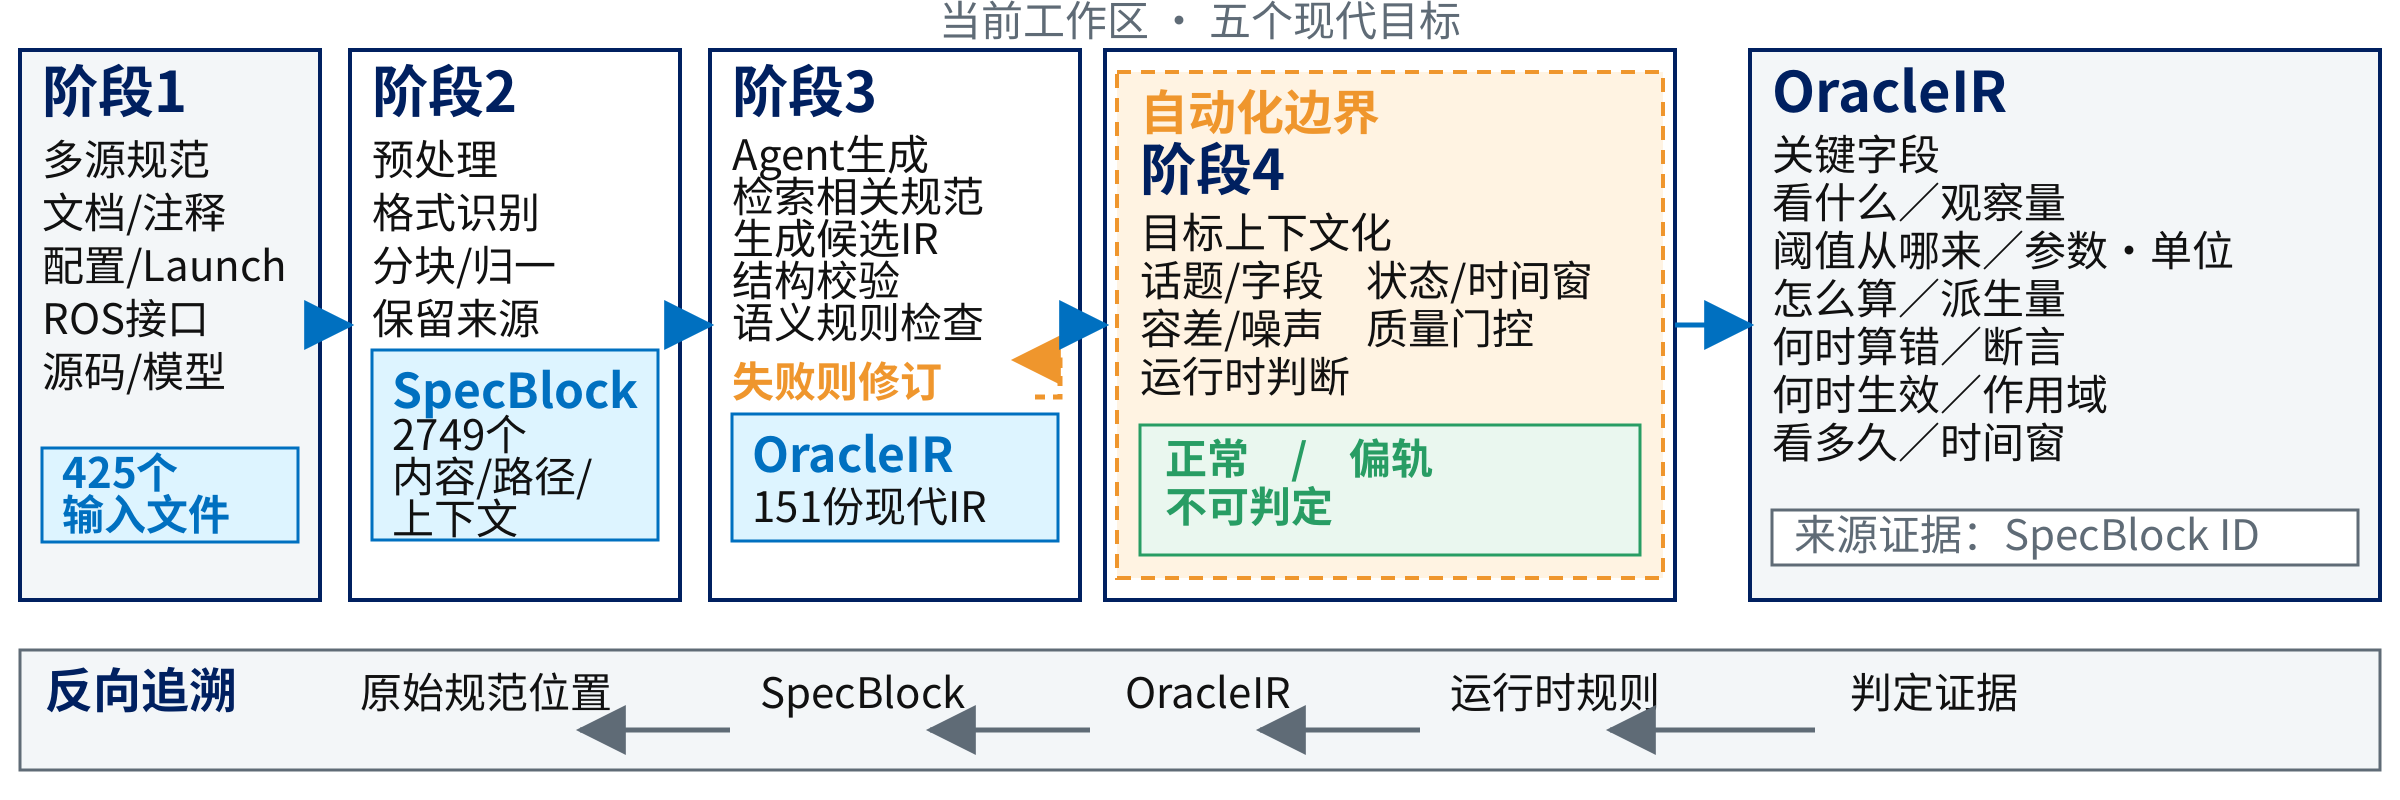
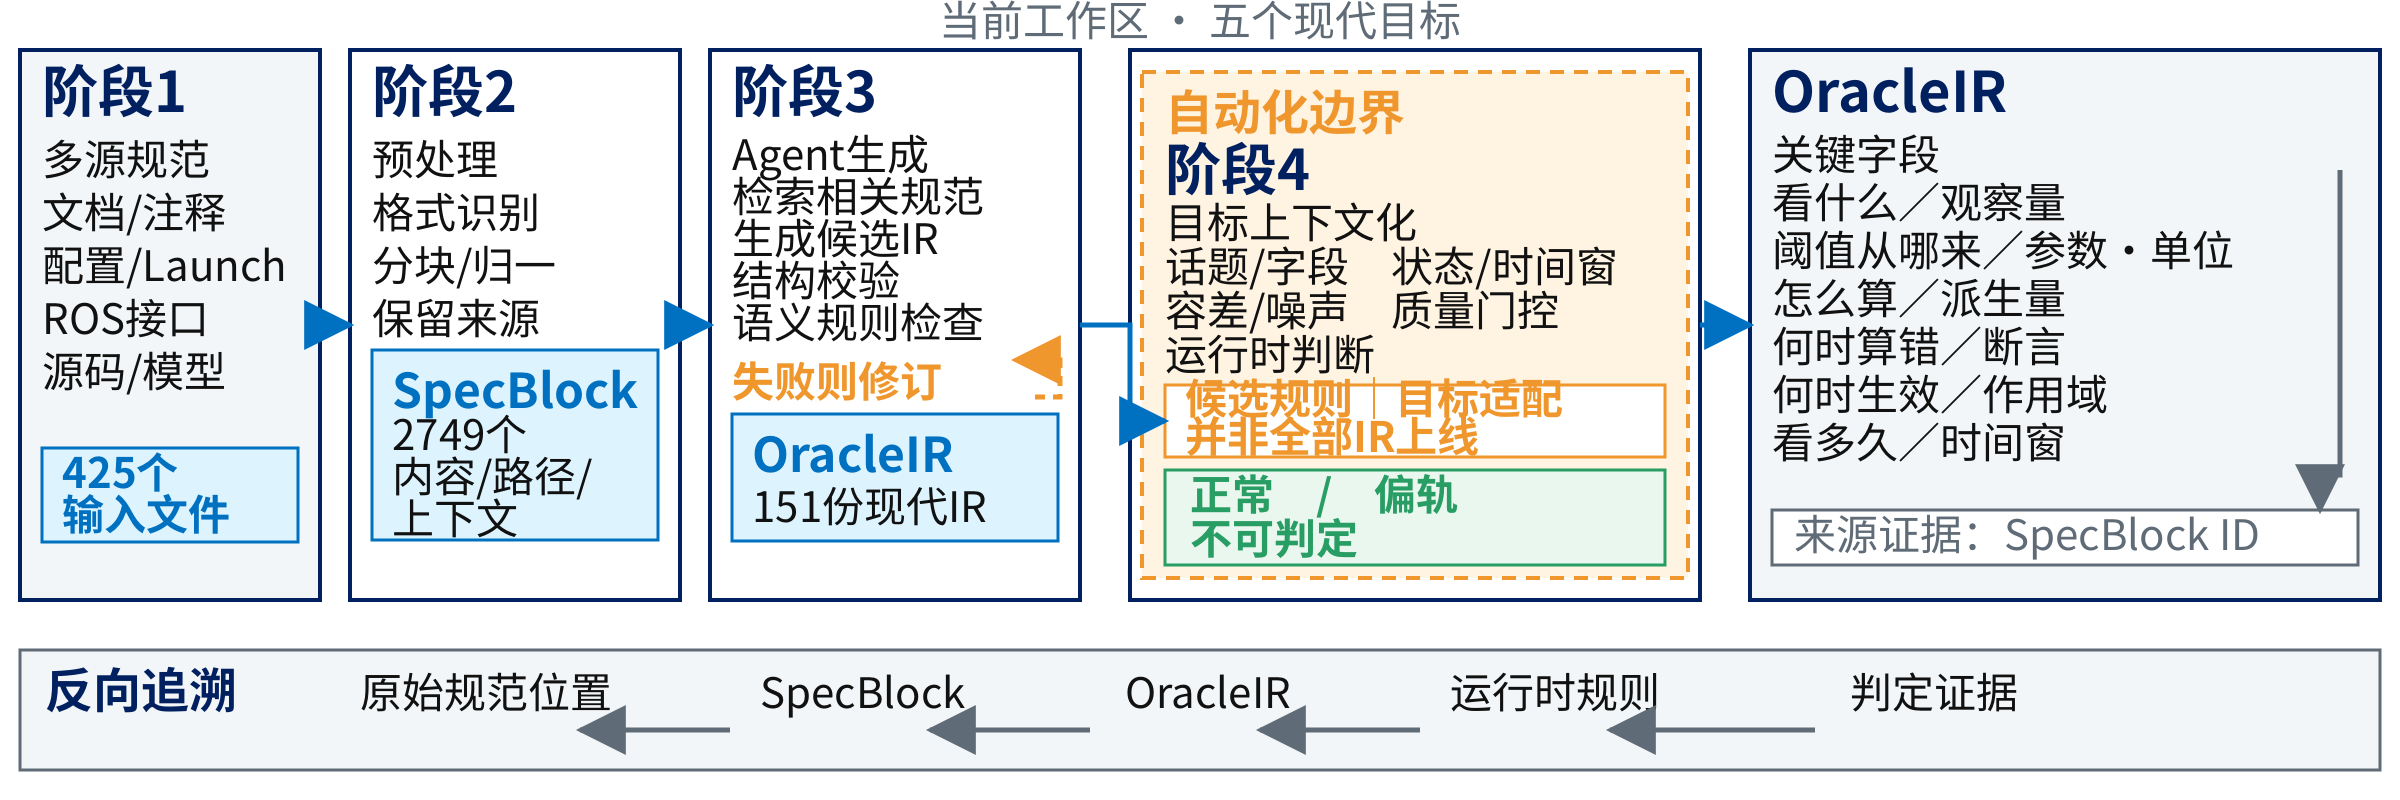
fix: align PPT diagram flows and evidence boundaries

Changed region(s): [[0.4375, 0.0625, 0.7188, 0.75], [0.9375, 0.5625, 1.0, 0.625]]

diff --git a/人才项目/PPT_第2-3部分/tools/svg_diagrams.py b/人才项目/PPT_第2-3部分/tools/svg_diagrams.py
@@ -125,10 +125,17 @@ def draw_overview() -> str:
     box(c, 1945, 409, 400, 90, "候选证据包", (), fill=COLORS["green_fill"], stroke=COLORS["green"])
     box(c, 1945, 526, 400, 90, "公开沟通材料", (), fill=COLORS["white"])
 
-    c.polyline(((328, 233), (430, 233)), color=COLORS["blue"], arrow="blue")
+    # Three input cards first merge on a dedicated trunk, then enter task one.
+    for source_y in (225, 397, 569):
+        c.polyline(((328, source_y), (370, source_y)), color=COLORS["blue"], arrow=None)
+    c.polyline(((370, 225), (370, 569)), color=COLORS["blue"], arrow=None)
+    c.polyline(((370, 397), (430, 397)), color=COLORS["blue"], arrow="blue")
     c.polyline(((820, 330), (935, 330)), color=COLORS["blue"], arrow="blue")
     c.polyline(((1325, 330), (1440, 330)), color=COLORS["blue"], arrow="blue")
-    c.polyline(((1830, 330), (1945, 330)), color=COLORS["blue"], arrow="blue")
+    # Each task has its own correctly typed asset output.
+    c.polyline(((820, 450), (820, 575), (1910, 575), (1910, 220), (1945, 220)), color=COLORS["blue"], arrow="blue")
+    c.polyline(((1325, 450), (1325, 565), (1900, 565), (1900, 337), (1945, 337)), color=COLORS["blue"], arrow="blue")
+    c.polyline(((1830, 330), (1885, 330), (1885, 454), (1945, 454)), color=COLORS["blue"], arrow="blue")
     # feedback is deliberately above the platform strip.
     c.polyline(((1635, 510), (1635, 550), (1130, 550), (1130, 510)), color=COLORS["green"], arrow="green", dash="12 10")
     c.polyline(((1635, 550), (625, 550), (625, 510)), color=COLORS["green"], arrow="green", dash="12 10")
@@ -171,13 +178,15 @@ def draw_oracle_pipeline() -> str:
         dash="10 8",
     )
 
-    c.rect(1105, 50, 570, 550, fill=COLORS["white"], stroke=COLORS["navy"], stroke_width=4)
-    c.rect(1117, 72, 546, 506, fill=COLORS["orange_fill"], stroke=COLORS["orange"], stroke_width=4, dash="14 10")
-    label(c, 1140, 130, "自动化边界", size=48, fill=COLORS["orange"])
-    label(c, 1140, 190, "阶段4", size=56)
-    c.multiline(1140, 248, ("目标上下文化", "话题/字段　状态/时间窗", "容差/噪声　质量门控", "运行时判断"), leading=48)
-    c.rect(1140, 425, 500, 130, fill=COLORS["green_fill"], stroke=COLORS["green"])
-    c.multiline(1165, 474, ("正常　/　偏轨", "不可判定"), size=42, leading=48, fill=COLORS["green"], weight="700")
+    c.rect(1130, 50, 570, 550, fill=COLORS["white"], stroke=COLORS["navy"], stroke_width=4)
+    c.rect(1142, 72, 546, 506, fill=COLORS["orange_fill"], stroke=COLORS["orange"], stroke_width=4, dash="14 10")
+    label(c, 1165, 130, "自动化边界", size=48, fill=COLORS["orange"])
+    label(c, 1165, 190, "阶段4", size=56)
+    c.multiline(1165, 238, ("目标上下文化", "话题/字段　状态/时间窗", "容差/噪声　质量门控", "运行时判断"), leading=44)
+    c.rect(1165, 385, 500, 72, fill=COLORS["white"], stroke=COLORS["orange"])
+    c.multiline(1185, 414, ("候选规则｜目标适配", "并非全部IR上线"), size=42, leading=38, fill=COLORS["orange"], weight="700")
+    c.rect(1165, 470, 500, 95, fill=COLORS["green_fill"], stroke=COLORS["green"])
+    c.multiline(1190, 510, ("正常　/　偏轨", "不可判定"), size=42, leading=44, fill=COLORS["green"], weight="700")
 
     c.rect(1750, 50, 630, 550, fill=COLORS["gray"], stroke=COLORS["navy"], stroke_width=4)
     label(c, 1772, 112, "OracleIR", size=56)
@@ -198,8 +207,9 @@ def draw_oracle_pipeline() -> str:
     c.polyline(((1815, 730), (1610, 730)), color=COLORS["gray_text"], arrow="gray")
     c.polyline(((320, 325), (350, 325)), color=COLORS["blue"], arrow="blue")
     c.polyline(((680, 325), (710, 325)), color=COLORS["blue"], arrow="blue")
-    c.polyline(((1080, 325), (1105, 325)), color=COLORS["blue"], arrow="blue")
-    c.polyline(((1675, 325), (1750, 325)), color=COLORS["blue"], arrow="blue")
+    c.polyline(((1080, 325), (1130, 325), (1130, 421), (1165, 421)), color=COLORS["blue"], arrow="blue")
+    c.polyline(((1700, 325), (1750, 325)), color=COLORS["blue"], arrow="blue")
+    c.polyline(((2340, 170), (2340, 475), (2320, 475), (2320, 510)), color=COLORS["gray_text"], arrow="gray")
     return c.render()
 
 
@@ -241,8 +251,8 @@ def draw_seed_feedback() -> str:
     c.text(1885, 333, "按目标适配，成熟度不同", size=42, fill=COLORS["gray_text"])
     c.rect(1885, 350, 470, 360, fill=COLORS["white"], stroke=COLORS["blue"], stroke_width=4)
     label(c, 1908, 395, "TB4｜组合优化结果", size=42, fill=COLORS["blue"])
-    c.multiline(1908, 435, ("唯一输入签名", "629→842｜+33.9%", "最高单一输入签名", "重复156→21", "下降86.5%"), size=42, leading=34)
-    c.multiline(1908, 610, ("组合优化结果", "不等同于语义约束", "覆盖率"), size=42, leading=37, fill=COLORS["red"], weight="700")
+    c.multiline(1908, 435, ("唯一输入签名", "629→842｜+33.9%", "最高单一签名重复", "156→21｜下降86.5%"), size=42, leading=42)
+    c.multiline(1908, 590, ("组合优化结果", "不等同于语义约束", "覆盖率"), size=42, leading=42, fill=COLORS["red"], weight="700")
 
     c.polyline(((320, 270), (395, 270)), color=COLORS["blue"], arrow="blue")
     c.polyline(((785, 220), (815, 220)), color=COLORS["blue"], arrow="blue")
@@ -267,13 +277,13 @@ def draw_evidence_root_cause() -> str:
     )
     for x, width, (title, lines) in zip(stage_xs, stage_widths, stages):
         c.rect(x, 95, width, 500, fill=COLORS["gray"], stroke=COLORS["line"], stroke_width=3)
-        label(c, x + 18, 150, title, size=48)
+        label(c, x + 18, 150, title, size=56)
         c.multiline(x + 18, 207, lines, size=42, leading=48)
     c.polyline(((385, 345), (405, 345)), color=COLORS["blue"], arrow="blue")
     c.polyline(((745, 345), (765, 345)), color=COLORS["blue"], arrow="blue")
     c.polyline(((1095, 345), (1115, 345)), color=COLORS["blue"], arrow="blue")
 
-    c.rect(1730, 30, 650, 515, fill=COLORS["gray"], stroke=COLORS["navy"], stroke_width=4)
+    c.rect(1730, 30, 650, 500, fill=COLORS["gray"], stroke=COLORS["navy"], stroke_width=4)
     label(c, 1755, 88, "计数口径收敛", size=56)
     c.rect(1755, 112, 570, 42, fill=COLORS["white"], stroke=COLORS["line"])
     c.text(1775, 146, "报警帧｜单时刻命中", size=42)
@@ -283,21 +293,26 @@ def draw_evidence_root_cause() -> str:
     c.text(1835, 250, "去重异常签名", size=42)
     c.rect(1845, 268, 390, 42, fill=COLORS["green_fill"], stroke=COLORS["green"])
     c.text(1865, 302, "候选根因族", size=42, fill=COLORS["green"])
-    c.rect(1875, 318, 360, 80, fill=COLORS["orange_fill"], stroke=COLORS["orange"])
+    c.rect(1875, 318, 360, 74, fill=COLORS["orange_fill"], stroke=COLORS["orange"])
     c.text(1895, 352, "独立漏洞*", size=42, fill=COLORS["orange"])
-    c.text(1895, 390, "*尚未认定", size=42, fill=COLORS["red"], weight="700")
-    c.rect(1755, 405, 600, 140, fill=COLORS["white"], stroke=COLORS["gray_text"])
-    c.text(1775, 441, "公开Issue 34条", size=42, fill=COLORS["gray_text"])
-    c.text(1775, 483, "22 Open / 12 Closed", size=42, fill=COLORS["gray_text"])
-    c.text(1775, 525, "非一一对应", size=42, fill=COLORS["red"], weight="700")
-    c.polyline(((2050, 405), (2050, 528), (2020, 528)), color=COLORS["gray_text"], arrow=None, dash="8 8")
+    c.text(1895, 386, "*尚未认定", size=42, fill=COLORS["red"], weight="700")
+    c.rect(1755, 400, 600, 130, fill=COLORS["white"], stroke=COLORS["gray_text"])
+    c.text(1775, 432, "公开Issue 34条", size=42, fill=COLORS["gray_text"])
+    c.text(1775, 474, "22 Open / 12 Closed", size=42, fill=COLORS["gray_text"])
+    c.text(1775, 516, "非一一对应", size=42, fill=COLORS["red"], weight="700")
+    c.polyline(((2050, 400), (2050, 310)), color=COLORS["gray_text"], arrow=None, dash="8 8")
+    # A right-side orthogonal rail makes every funnel transition explicit.
+    c.polyline(((2325, 133), (2340, 133), (2340, 185), (2295, 185)), color=COLORS["gray_text"], arrow="gray")
+    c.polyline(((2295, 185), (2340, 185), (2340, 237), (2265, 237)), color=COLORS["gray_text"], arrow="gray")
+    c.polyline(((2265, 237), (2340, 237), (2340, 289), (2235, 289)), color=COLORS["gray_text"], arrow="gray")
+    c.polyline(((2235, 289), (2340, 289), (2340, 355), (2235, 355)), color=COLORS["gray_text"], arrow="gray")
 
-    c.rect(1730, 560, 650, 180, fill=COLORS["green_fill"], stroke=COLORS["green"], stroke_width=4)
-    label(c, 1755, 610, "证据带", size=48, fill=COLORS["green"])
-    c.multiline(1755, 644, ("TB4：928轮→781签名", "→1条加速度路径候选链", "MoveIt：224帧→1个候选族"), size=42, leading=36)
+    c.rect(1730, 550, 650, 190, fill=COLORS["green_fill"], stroke=COLORS["green"], stroke_width=4)
+    label(c, 1755, 590, "证据带", size=56, fill=COLORS["green"])
+    c.multiline(1755, 640, ("TB4：928轮→781签名", "→1条加速度路径候选链", "MoveIt：224帧→1个候选族"), size=42, leading=48)
 
     c.rect(760, 660, 900, 110, fill=COLORS["orange_fill"], stroke=COLORS["orange"], stroke_width=4, dash="14 10")
-    label(c, 790, 715, "下一阶段｜尚未开展", size=48, fill=COLORS["orange"])
+    label(c, 790, 715, "下一阶段｜尚未开展", size=56, fill=COLORS["orange"])
     c.text(790, 758, "安全种子→Go2/ECO65-B→虚实事件对齐", size=42, fill=COLORS["orange"])
     c.polyline(((1450, 595), (1450, 640), (1210, 640), (1210, 660)), color=COLORS["orange"], arrow="orange", dash="12 10")
     return c.render()
